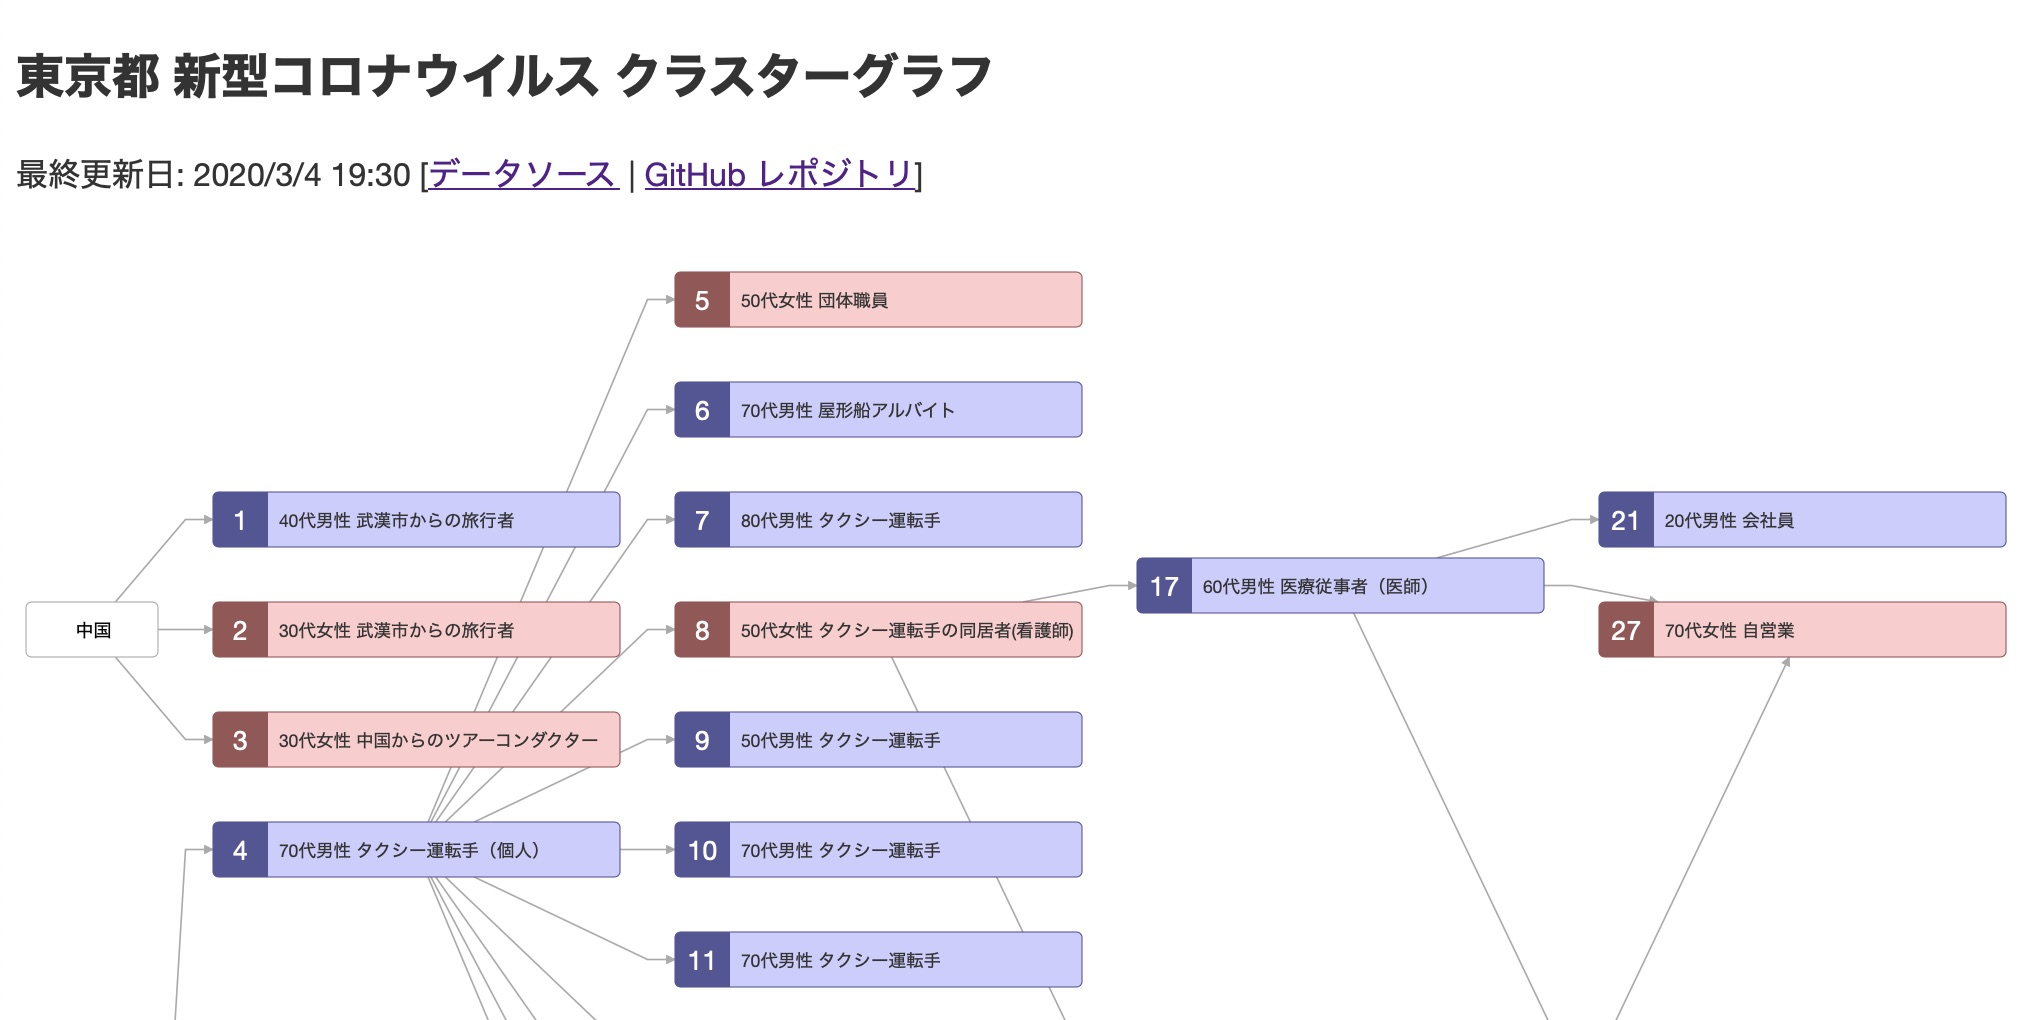
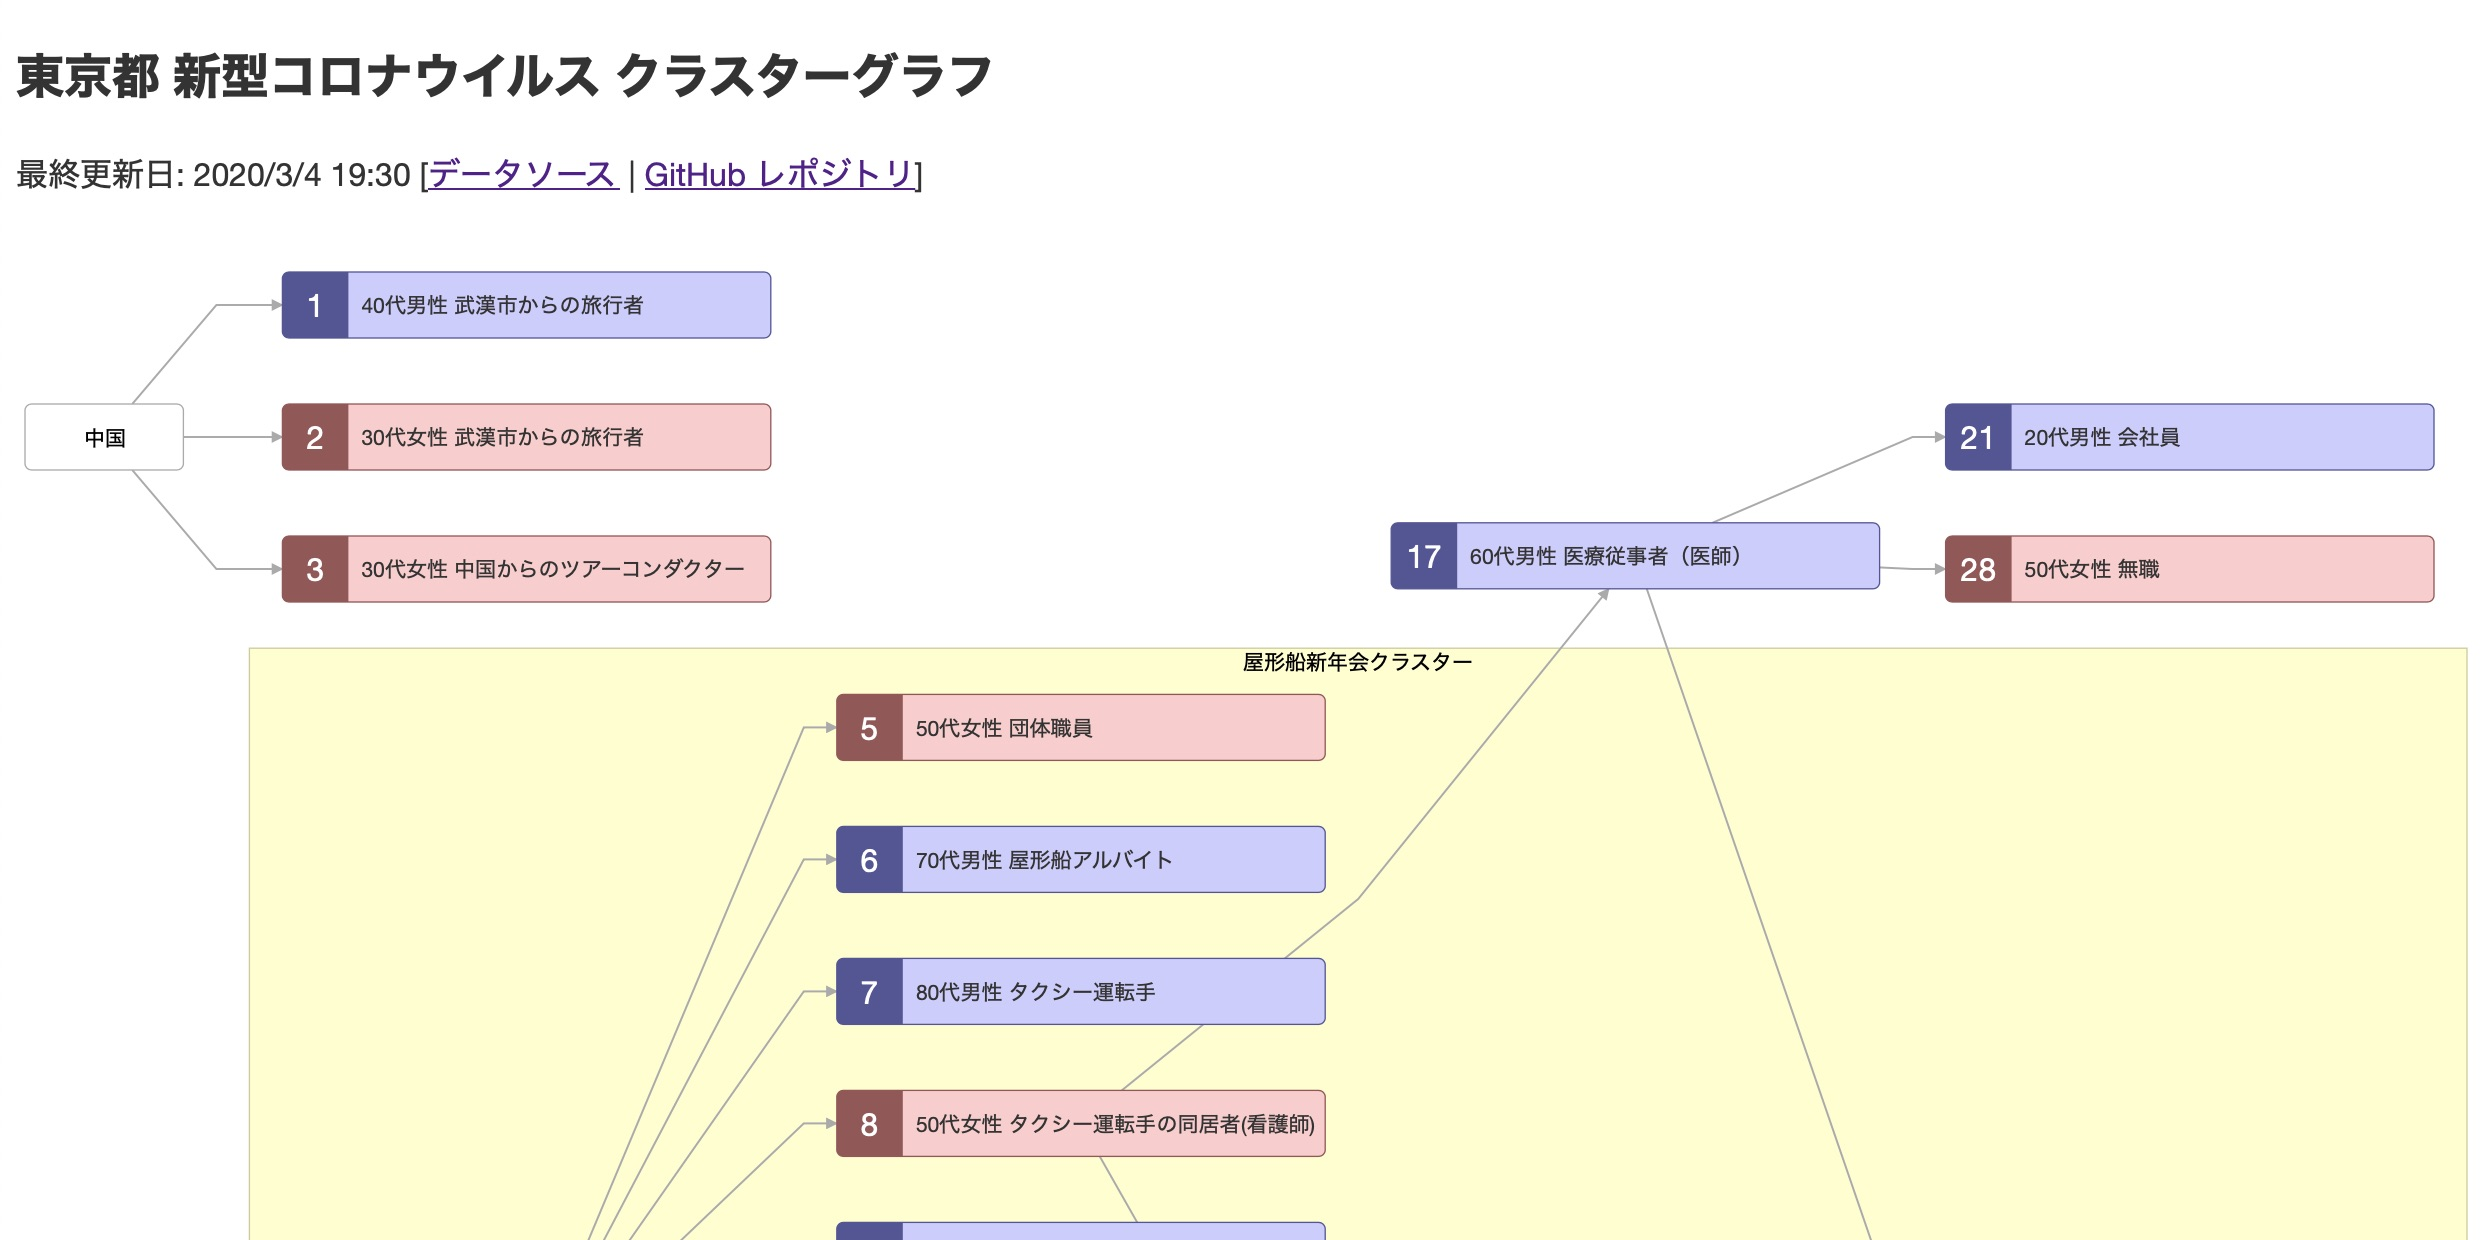
Add a cluster

diff --git a/js/main.js b/js/main.js
@@ -26,6 +26,10 @@ var initialNodes = [
 	{ id: 'non-tokyo', label: '都外', width: 100, height: 30, rx: 5, ry: 5, style: 'stroke: #aaa; fill: #fff;' }
 ];
 
+var clusters = [
+	{ id: 'yakatabune', label: '屋形船新年会クラスター', clusterLabelPos: 'top', style: 'stroke: #cc9; fill: #ffc;', nodes:[4, 5, 6, 7, 8, 9, 10, 11, 12, 13, 15, 16, 27] }
+];
+
 var boxColors = {
 	'男性': {stroke: '#559', fill: '#ccf'},
 	'女性': {stroke: '#955', fill: '#fcc'}
@@ -55,9 +59,9 @@ var fullwidthToHalfwith = function(s) {
 	});
 };
 
-var tooltip = d3.select("body").append("div")
-	.attr("class", "tooltip")
-	.style("opacity", 0);
+var tooltip = d3.select('body').append('div')
+	.attr('class', 'tooltip')
+	.style('opacity', 0);
 
 loadJSON(DATA_URL).then(function(data) {
 
@@ -103,7 +107,7 @@ loadJSON(DATA_URL).then(function(data) {
 			style: 'stroke: ' + (dead ? '#f00' : colors.stroke) +
 				'; stroke-width: ' + (dead ? 3 : 1) +
 				'; fill: ' + colors.fill,
-			description: 'No: ' + patient['No'] +
+			description: 'No: ' + id +
 				'<br>居住地: ' + patient['居住地'] +
 				'<br>年代: ' + patient['年代'] +
 				'<br>性別: ' + patient['性別'] +
@@ -123,9 +127,19 @@ loadJSON(DATA_URL).then(function(data) {
 				lineInterpolate: 'monotone',
 				lineTension: 0.0,
 				style: 'stroke: #aaa; fill: none; stroke-width: 1.5px;',
-				arrowheadStyle: "fill: #aaa"
+				arrowheadStyle: 'fill: #aaa'
 			});
 		});
+
+		clusters.forEach(function(cluster) {
+			if (cluster.nodes.indexOf(id) !== -1) {
+				graph.setParent(id, cluster.id)
+			}
+		});
+	});
+
+	clusters.forEach(function(cluster) {
+		graph.setNode(cluster.id, cluster);
 	});
 
 	var svg = d3.select('#network');
@@ -140,22 +154,22 @@ loadJSON(DATA_URL).then(function(data) {
 	var render = new dagreD3.render();
 	render(inner, graph);
 
-	inner.selectAll("g.node")
-		.on("mouseover", function(d) {
+	inner.selectAll('g.node')
+		.on('mouseover', function(d) {
 			tooltip.transition()
 				.duration(200)
-				.style("opacity", .9);
+				.style('opacity', .9);
 			tooltip.html(graph.node(d).description)
-				.style("left", (d3.event.pageX) + "px")
-				.style("top", (d3.event.pageY - 28) + "px");
+				.style('left', (d3.event.pageX) + 'px')
+				.style('top', (d3.event.pageY - 28) + 'px');
 		})
-		.on("mouseout", function(d) {
+		.on('mouseout', function(d) {
 			tooltip.transition()
 				.duration(500)
-				.style("opacity", 0);
+				.style('opacity', 0);
 		})
 
-	var initialScale = 0.55;
+	var initialScale = 0.66;
 	zoom
 		.translate([(svg.attr('width') - graph.graph().width * initialScale) / 2, 20])
 		.scale(initialScale)

diff --git a/index.html b/index.html
@@ -28,6 +28,6 @@
 <body>
 	<h2>東京都 新型コロナウイルス クラスターグラフ</h2>
 	<p>最終更新日: <span id="last-update"></span> [<a href="https://github.com/tokyo-metropolitan-gov/covid19">データソース</a> | <a href="https://github.com/nagix/covid19-tokyo-graph">GitHub レポジトリ</a>]</p>
-	<svg id="network" width=1000 style="width: 1000px"><g></g></svg>
+	<svg id="network" width=1230 style="width: 100%"><g></g></svg>
 	<script type="text/javascript" src="js/main.js"></script>
 </body>
